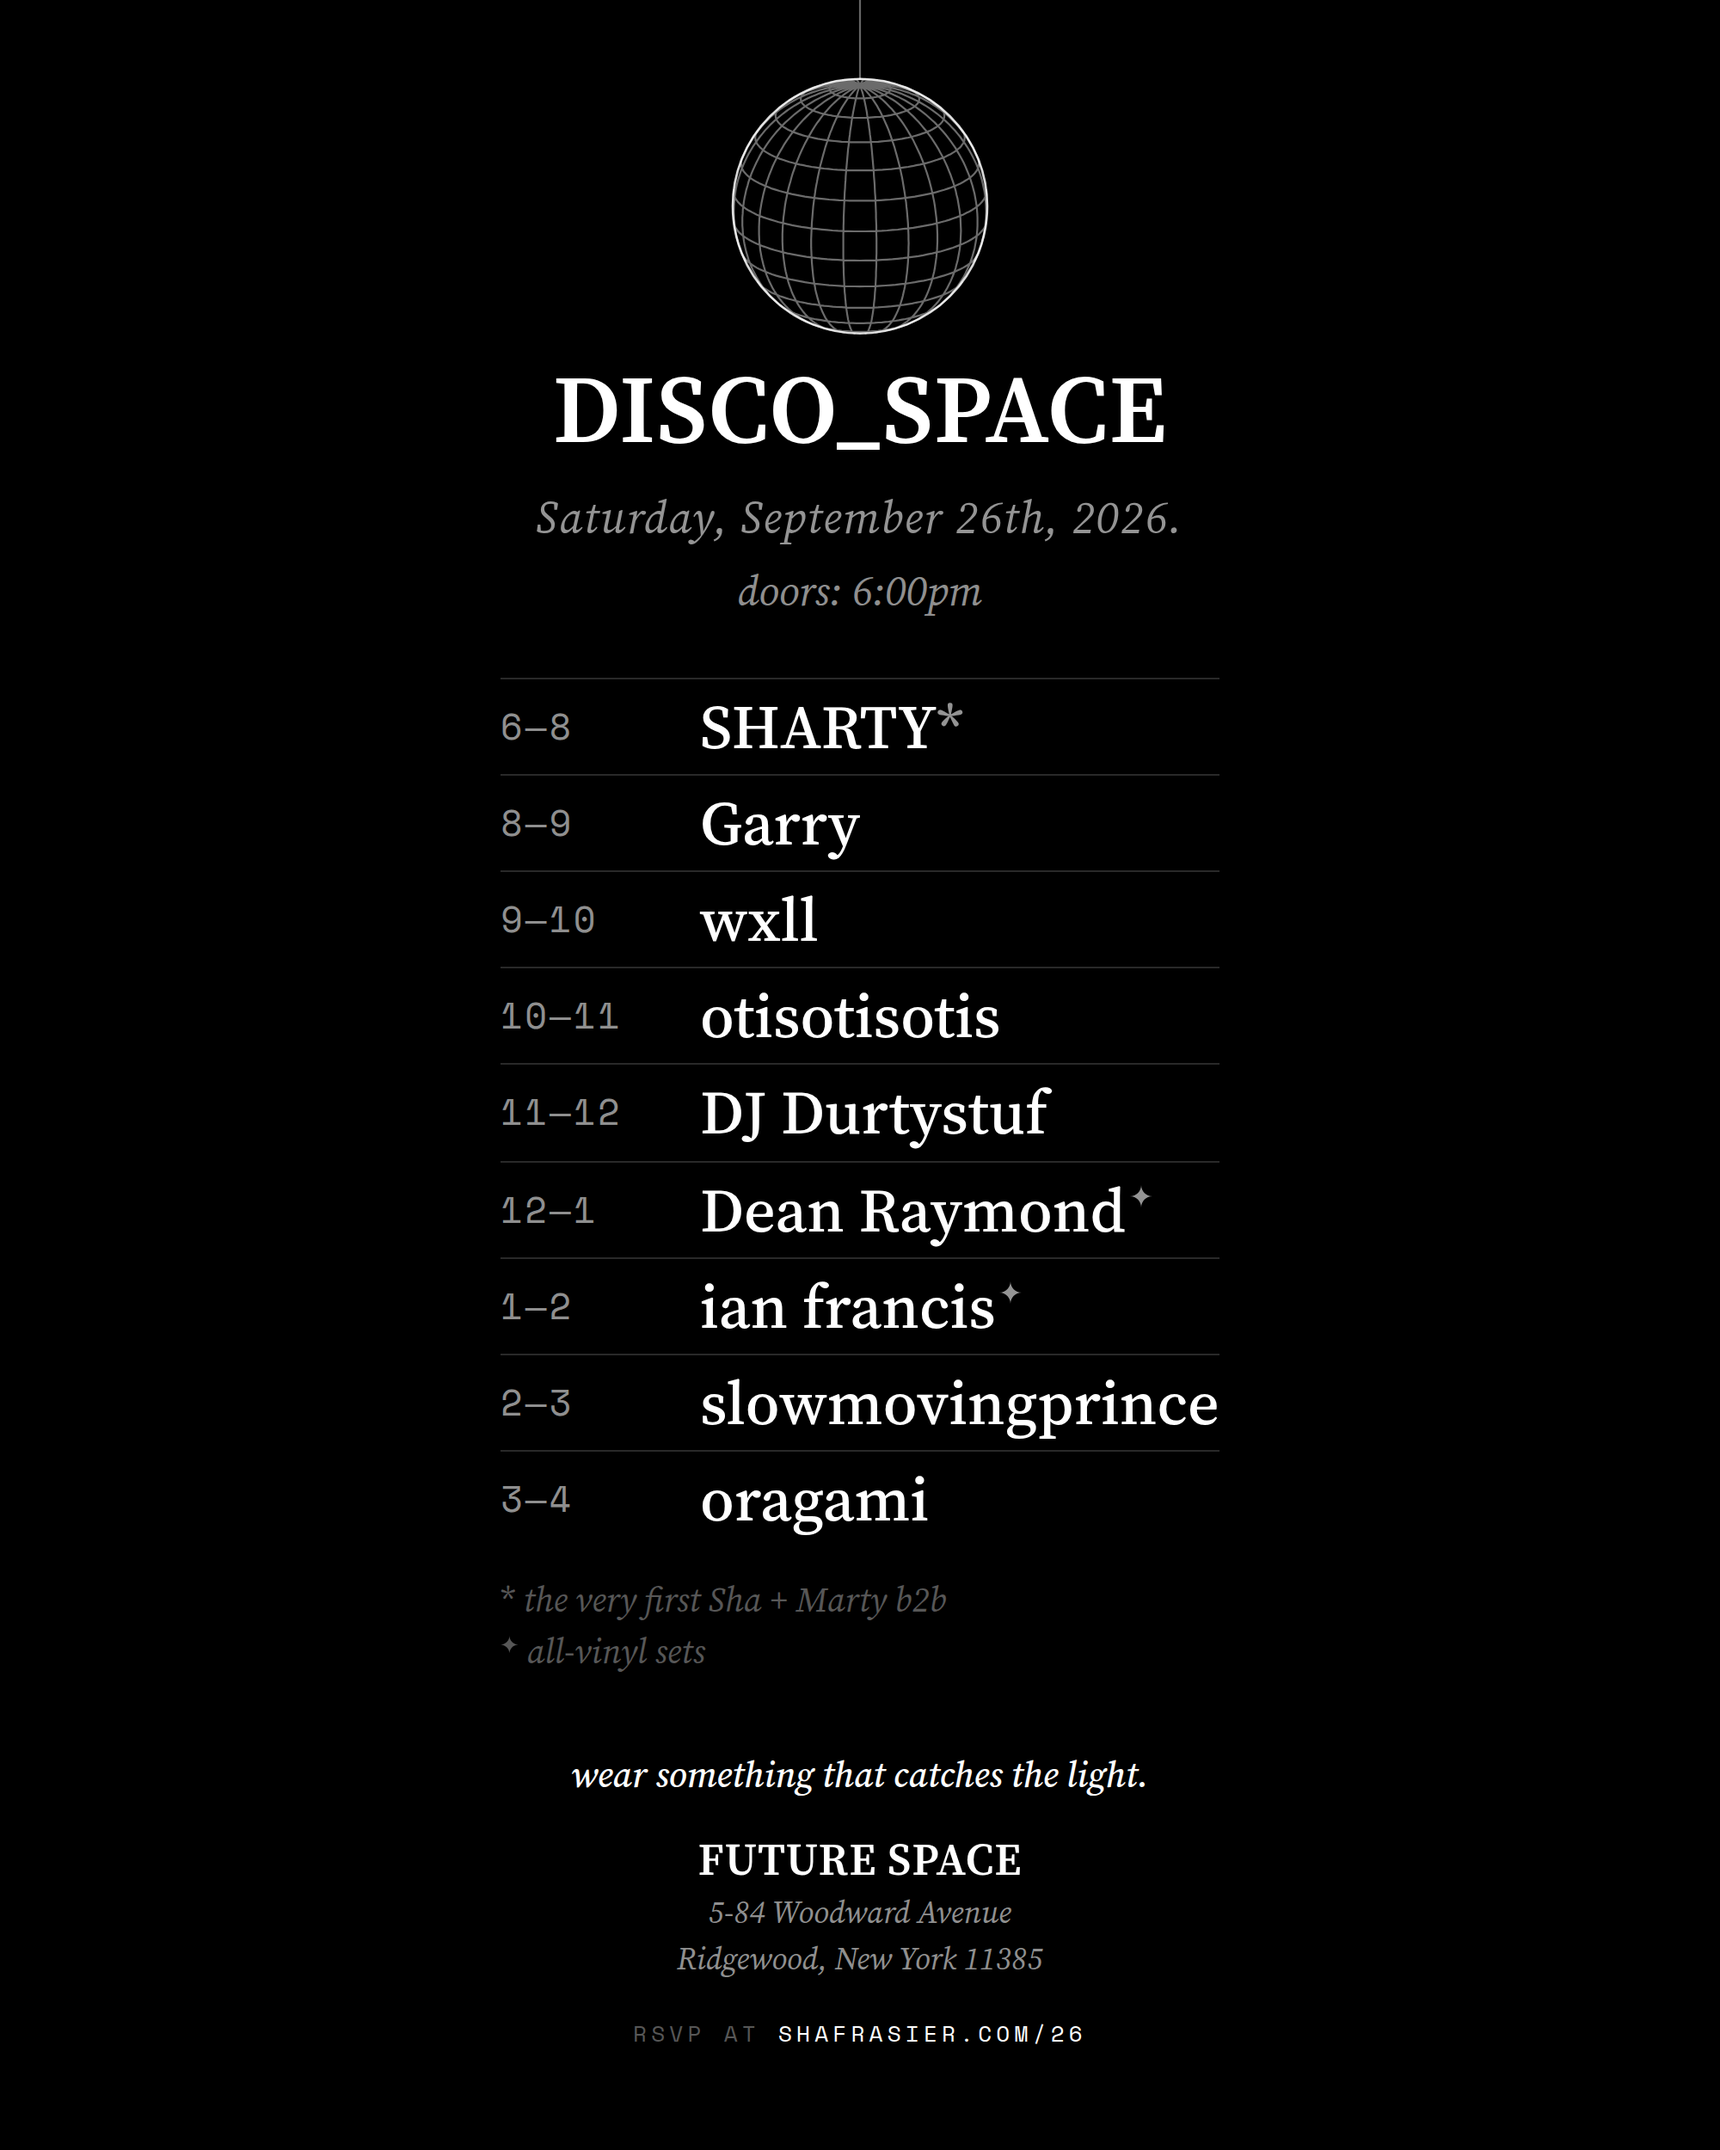
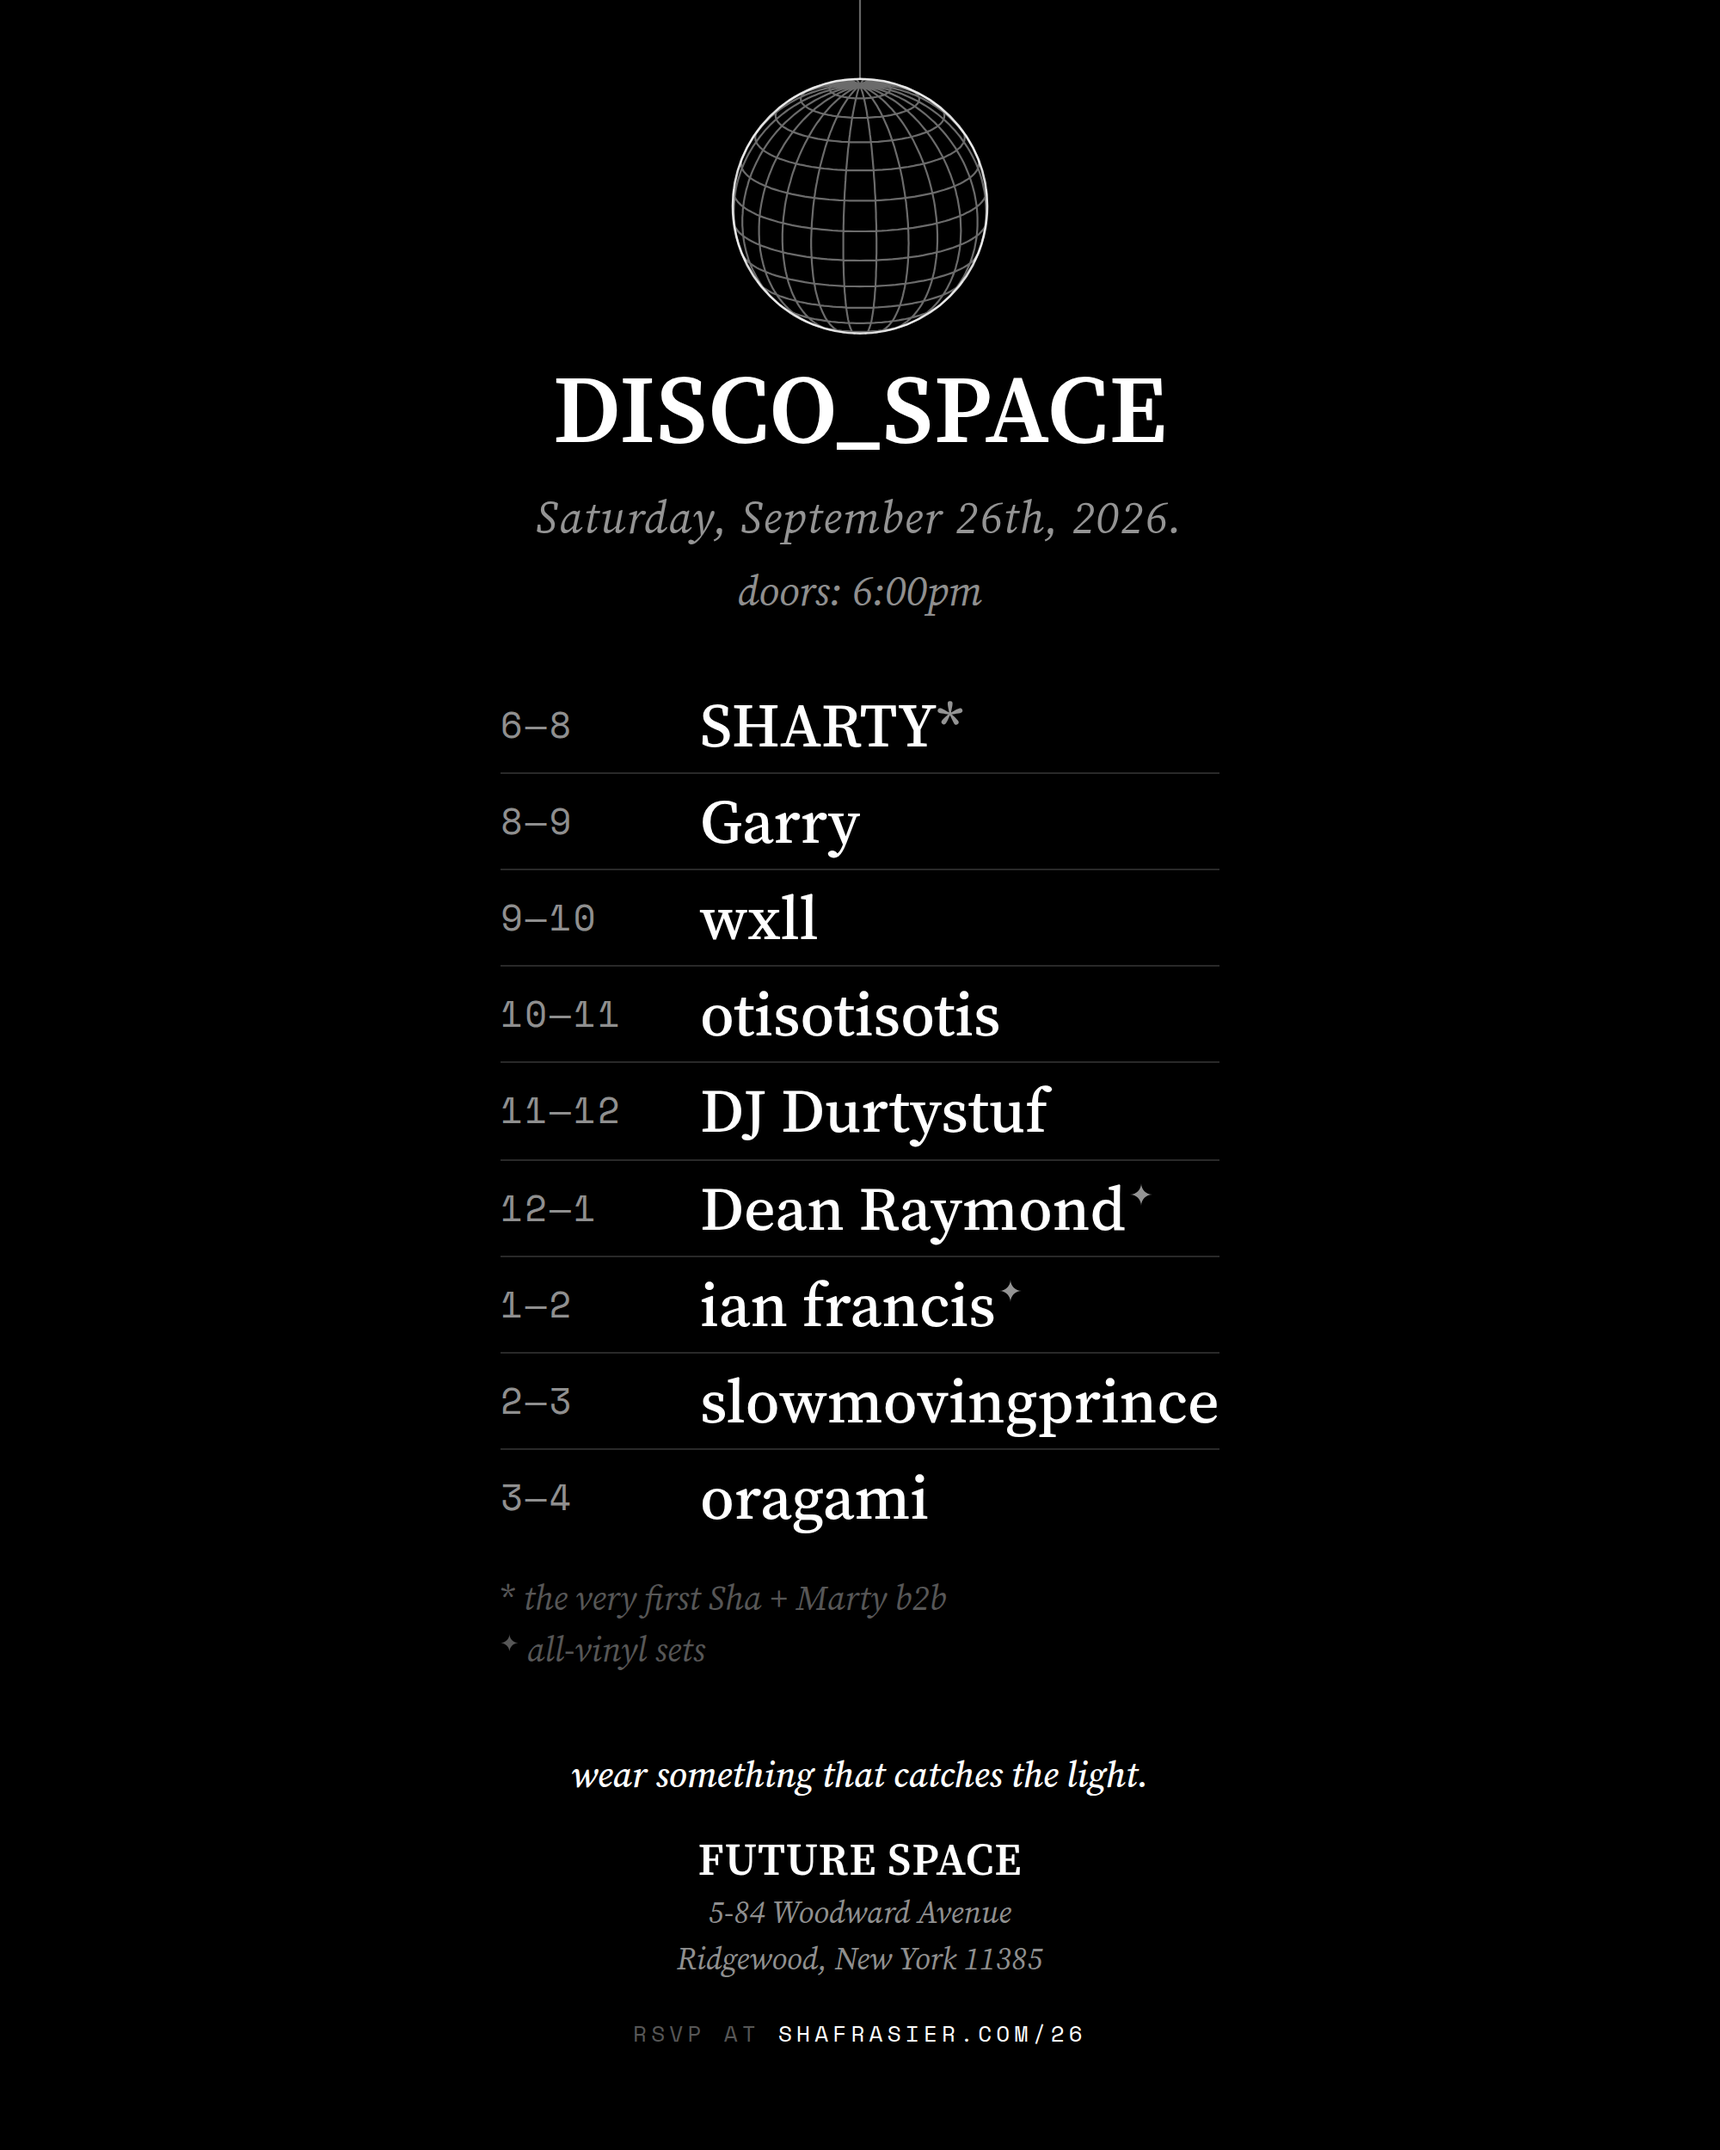
Rule between the rows, not around the table
A line sat above SHARTY with none under oragami. The pair of rules meant to
enclose the table — border-top on every slot, border-bottom on the last —
only half worked on the poster: :last-of-type looks for the last <div> in
.lineup, and that is the notes block, not a slot, so the closing rule never
drew. The table was ruled at the top and open at the bottom.

Rules belong between rows anyway, so `.slot + .slot` draws them: nine rows,
eight rules, one exactly where two rows meet and none at either end. It
cannot drift the way the old pair did, whatever ends up next to the table.
The page carried the same pattern and gets the same fix.

Claude-Session: https://claude.ai/code/session_012u9DGjgcEhyf5RTtz1EsMz

diff --git a/26/poster.html b/26/poster.html
@@ -74,8 +74,8 @@ body{margin:0;background:#000;color:var(--white);font-family:var(--serif);
    makes it hug its own widest row, so the auto margins centre the whole table
    while every time and every name stays left-aligned to its own column. */
 .lineup{margin:34px auto 0;width:max-content;max-width:calc(100% - 140px);text-align:left}
-.slot{display:flex;align-items:center;gap:24px;padding:6px 0;border-top:1px solid var(--hair)}
-.slot:last-of-type{border-bottom:1px solid var(--hair)}
+.slot{display:flex;align-items:center;gap:24px;padding:6px 0}
+.slot + .slot{border-top:1px solid var(--hair)}
 .slot .t{flex:0 0 92px;font-family:var(--label);font-size:21px;letter-spacing:.06em;line-height:1;
   color:var(--dim);white-space:nowrap;font-variant-numeric:tabular-nums}
 .slot .who{font-size:36px;font-weight:500;line-height:1.2}

diff --git a/26/index.html b/26/index.html
@@ -238,8 +238,8 @@ section:last-of-type{padding-bottom:5.5rem}
 }
 
 /* lineup */
-.slot{display:flex;align-items:center;gap:.9rem;padding:.78rem 0;border-top:1px solid var(--hair)}
-.slot:last-child{border-bottom:1px solid var(--hair)}
+.slot{display:flex;align-items:center;gap:.9rem;padding:.78rem 0}
+.slot + .slot{border-top:1px solid var(--hair)}
 .slot .t{font-family:var(--label);font-size:.74rem;letter-spacing:.1em;line-height:1;color:var(--dim);white-space:nowrap;font-variant-numeric:tabular-nums;flex:0 0 4.6rem}
 .slot .who{font-size:1.05rem;font-weight:500}
 .slot .who.tba{color:var(--faint);letter-spacing:.45em}
